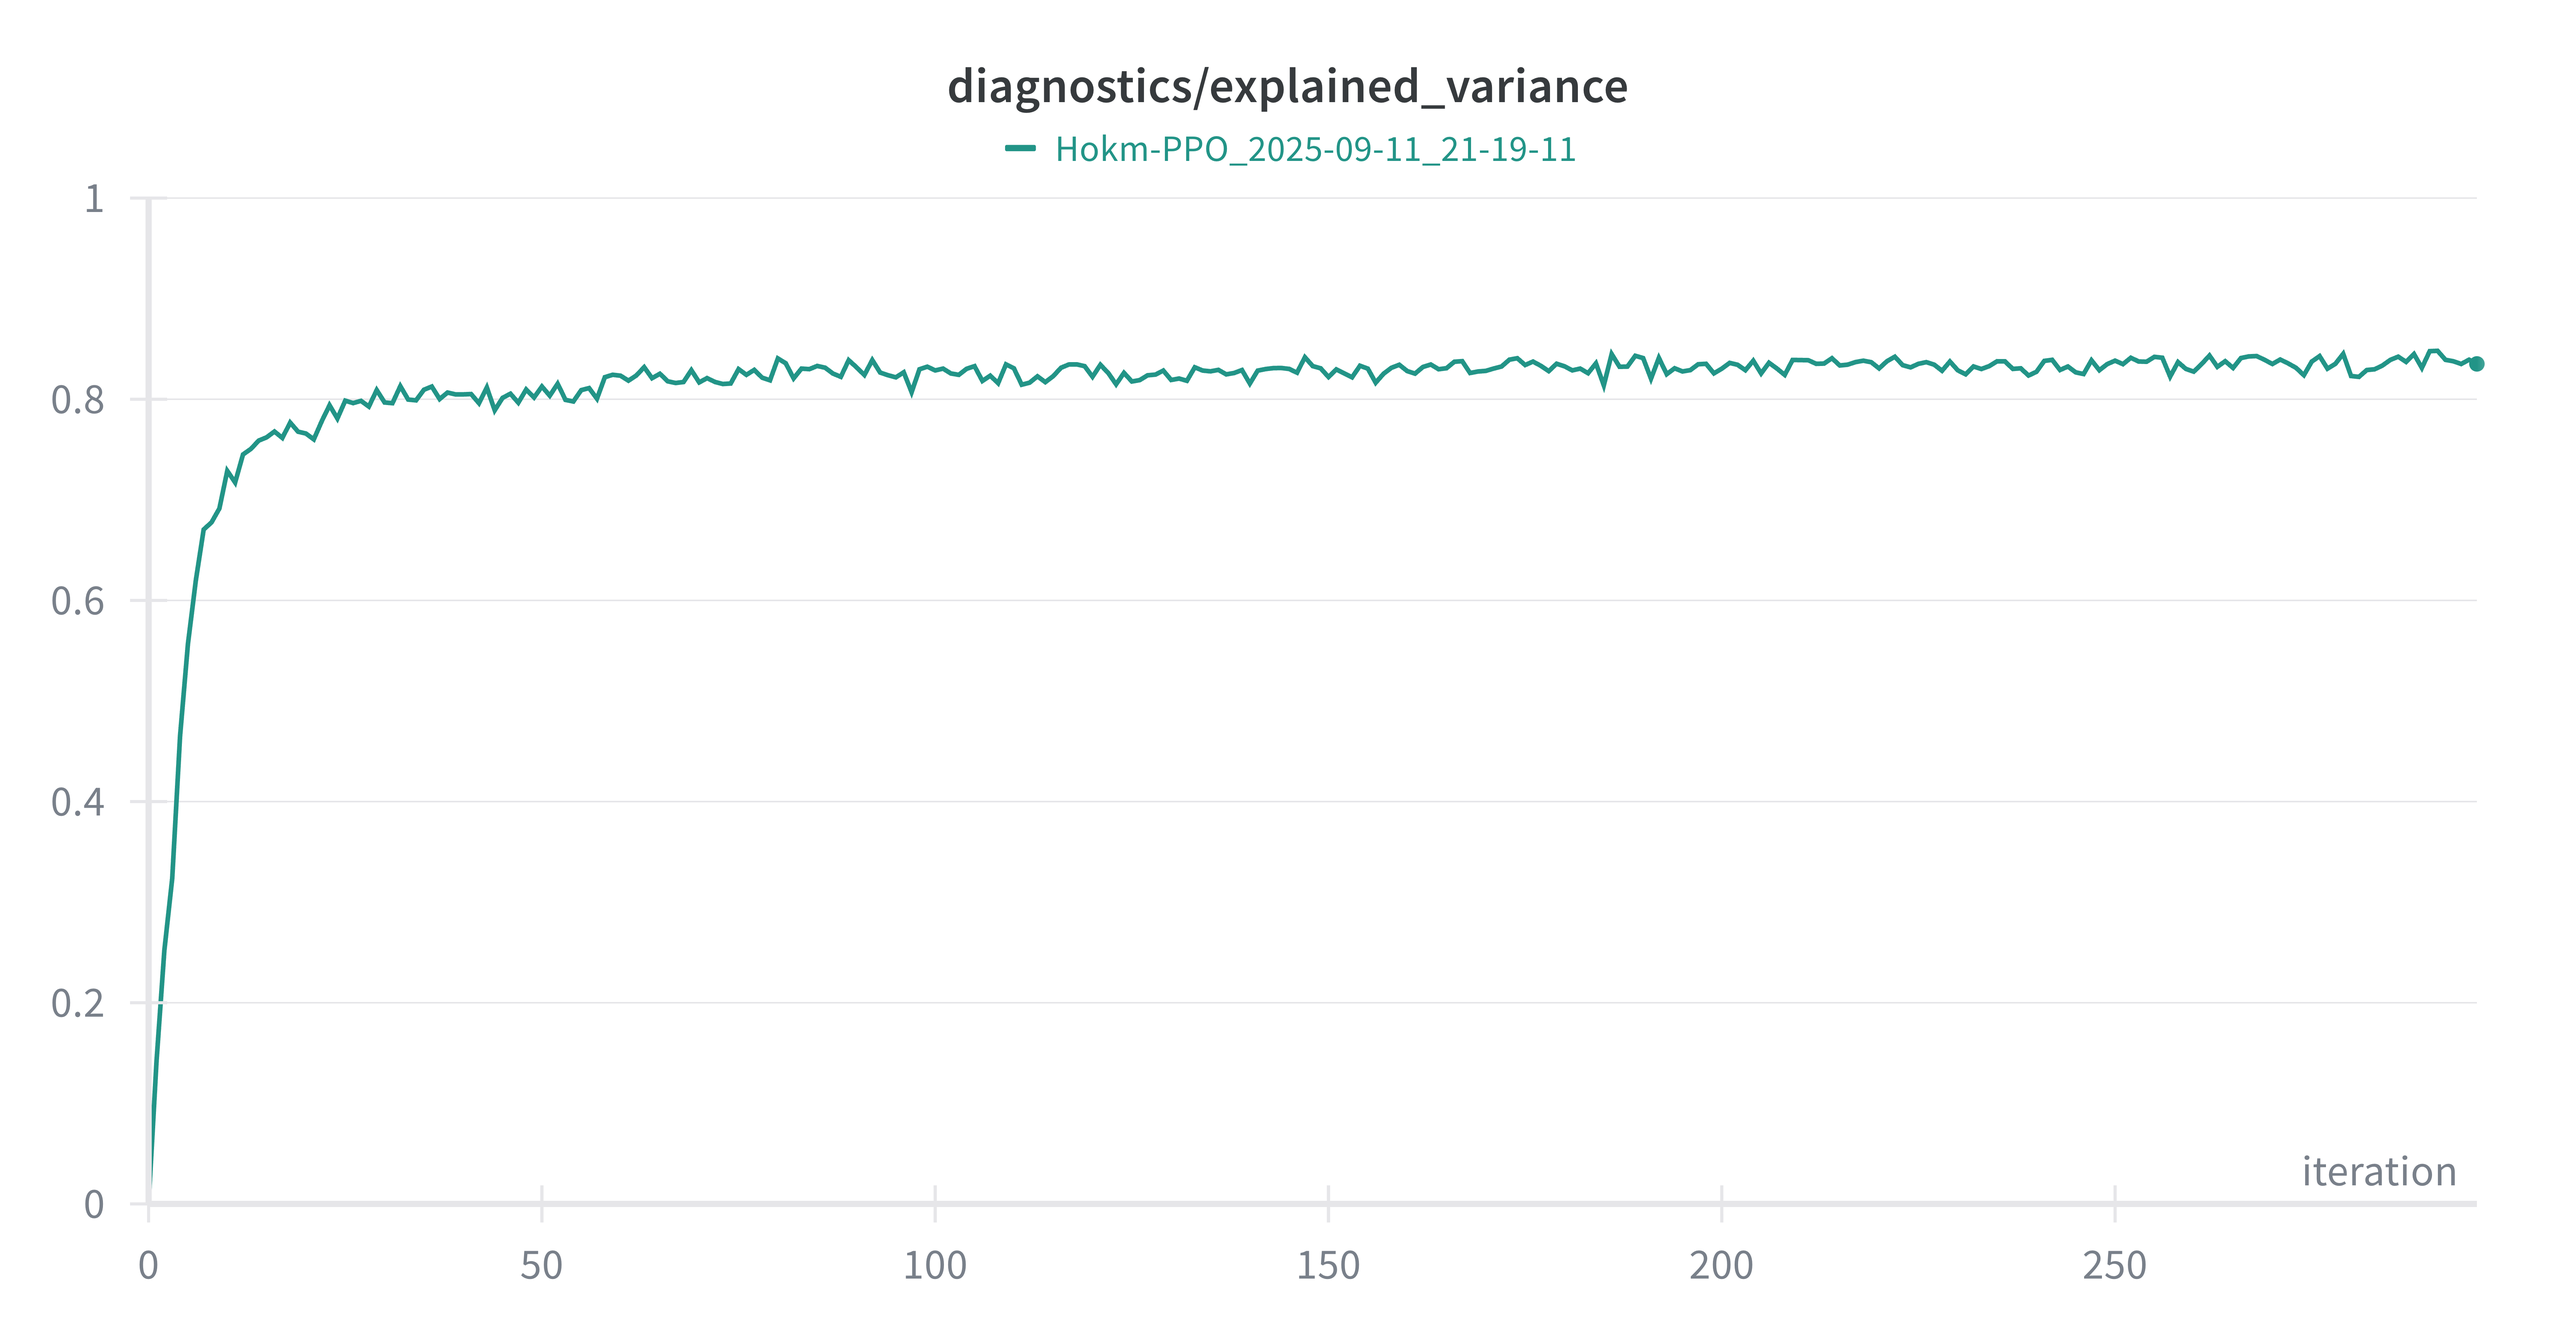
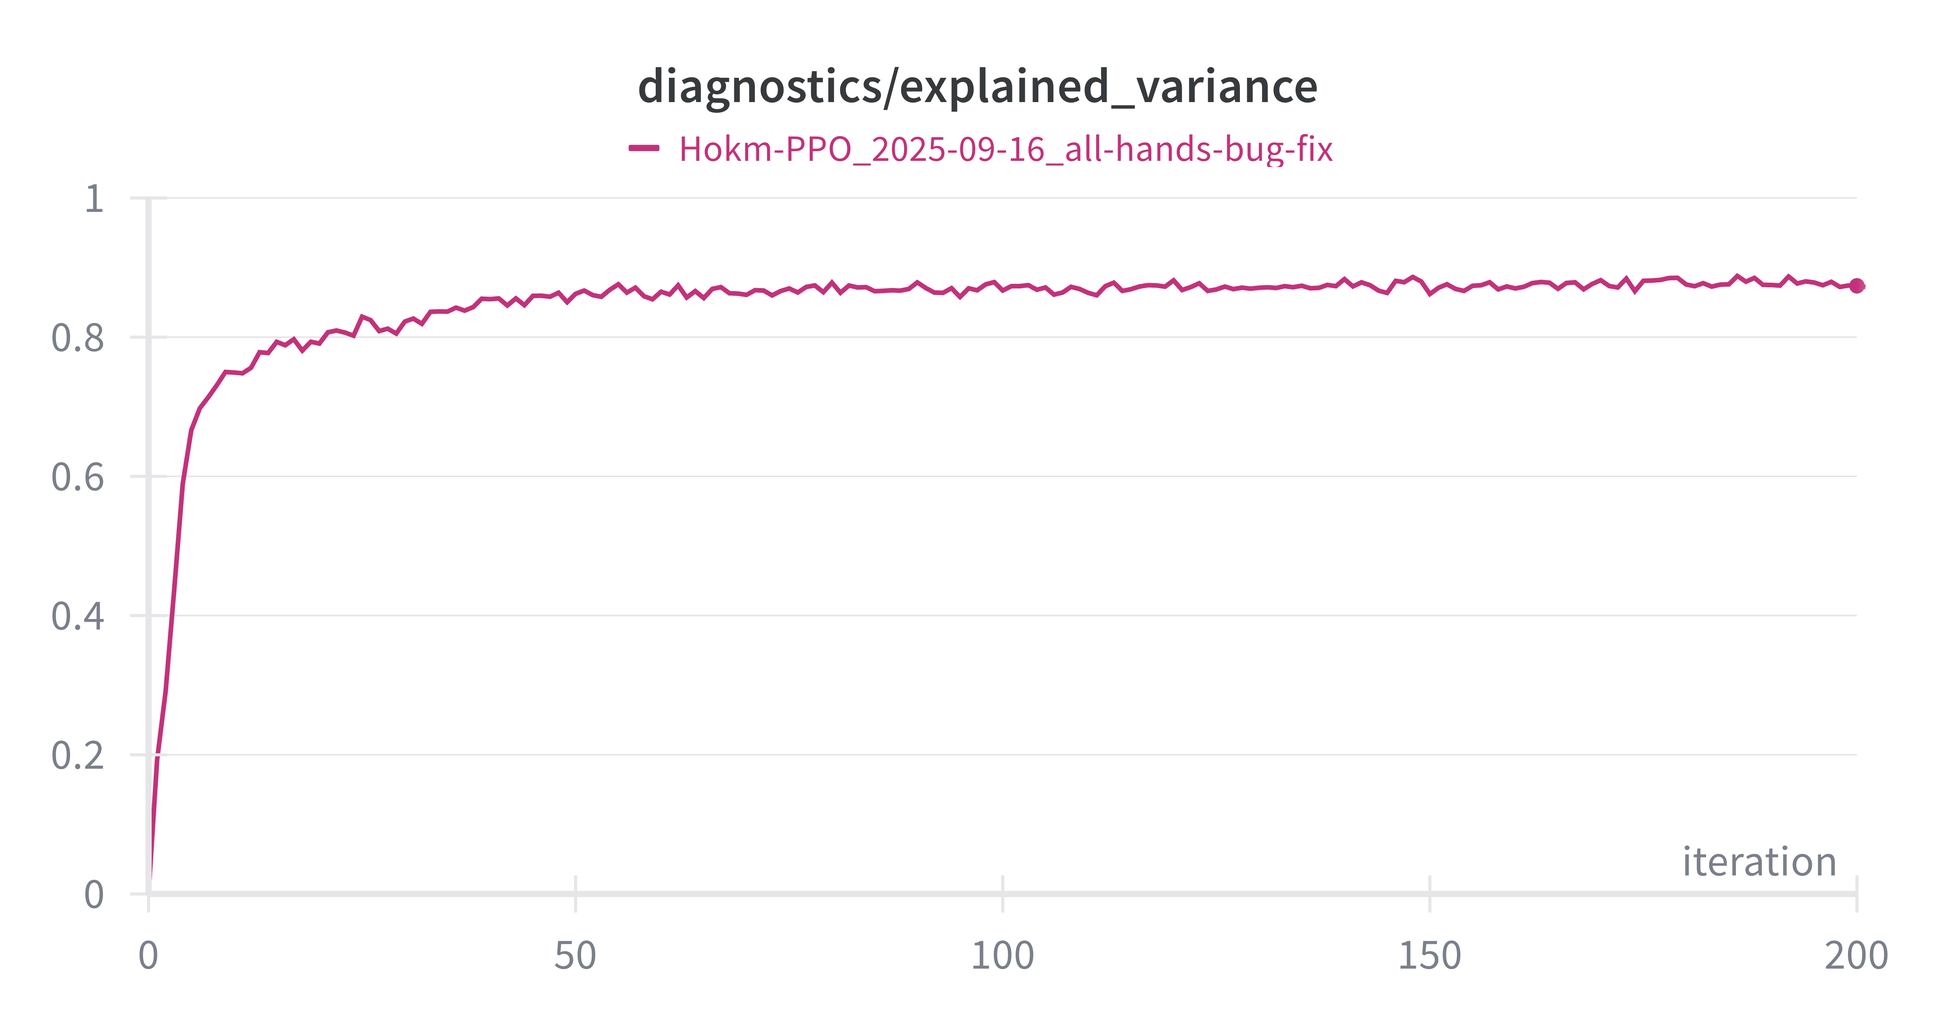
Update hokmrl post with new graphs

diff --git a/_posts/2025-09-12-hokm-rl.md b/_posts/2025-09-12-hokm-rl.md
@@ -142,7 +142,7 @@ Proper model evaluation requires competition against non-learning opponents. Her
     <img src="/img/hokmrl/rl_vs_heuristic.png" alt="" style="width: 100%;">
 </div>
 
-The model begins at random performance levels—50% against random opponent and approximately 20% against heuristic player. Performance climbs to 80% and 60%, respectively. This may not seem impressive, but Hokm is a game that is highly decided by the initial card dealings, as apparent by how accurate the value function can predict the outcome right after dealing the cards. Think about it this way: if your hand is stacked with high cards, and is empty of one or more suits, even a random play would bring out those high cards, and they would win anyways. Also, usually a match is 7 games, and the expected value of winning a match against random and heuristic-based player would be around 80% and 99%, respectively (calculated from cumulative binomial distribution).
+The model begins at random performance levels—50% against random opponent and approximately 20% against heuristic player. Performance climbs to over 80% and 60%, respectively. This may not seem impressive, but Hokm is a game that is highly decided by the initial card dealings, as apparent by how accurate the value function can predict the outcome right after dealing the cards. Think about it this way: if your hand is stacked with high cards, and is empty of one or more suits, even a random play would bring out those high cards, and they would win anyways. Also, usually a match is 7 games, and the expected value of winning a match against random and heuristic-based player would be around 80% and 99%, respectively (calculated from cumulative binomial distribution).
 
 ### Value Function Learning
 
@@ -152,7 +152,7 @@ Let's also look at how the value function is trained. Here is a graph of expecte
     <img src="/img/hokmrl/ev.png" alt="" style="width: 100%;">
 </div>
 
-I've explained what expected value is in my [last post](https://neuralpensieve.github.io/2025/08/26/rl-llm-textworld.html), and how important it is to measure and monitor during training, but in short, it explains the variance in the data that is explained by the model. So a perfect model is going to have EV of 1.0, a model that outputs the average will have EV of 0.0, and a model that is working against you will have unbounded negative EV. Here we see that the critic quickly gets trained to achieve an impressive 0.8 within just 30 iterations.
+I've explained what expected value is in my [last post](https://neuralpensieve.github.io/2025/08/26/rl-llm-textworld.html), and how important it is to measure and monitor during training, but in short, it explains the variance in the data that is explained by the model. So a perfect model is going to have EV of 1.0, a model that outputs the average will have EV of 0.0, and a model that is working against you will have unbounded negative EV. Here we see that the critic quickly gets trained to achieve an impressive 0.88 within just 100 iterations.
 
 Another interesting thing to look at is how good the value function is in predicting the outcome of the game, right after the dealing. Remember that the critic is privileged, so it sees all hands. A good value function should have a roughly good estimate of the chances of a team winning, just by looking at the cards, and knowing the trump suit. In this case, we are getting around 50% positive correlation between the initial estimation, and final outcome of the game. It shows that 1) initial card dealing is a highly important factor in the outcome of the game (explaining why even with random opponent, it is not possible to have 100% winrate), 2) the actual gameplay is important, especially in edge cases, 2) there is probably some room for improvement for both the policy and the value function.
 
